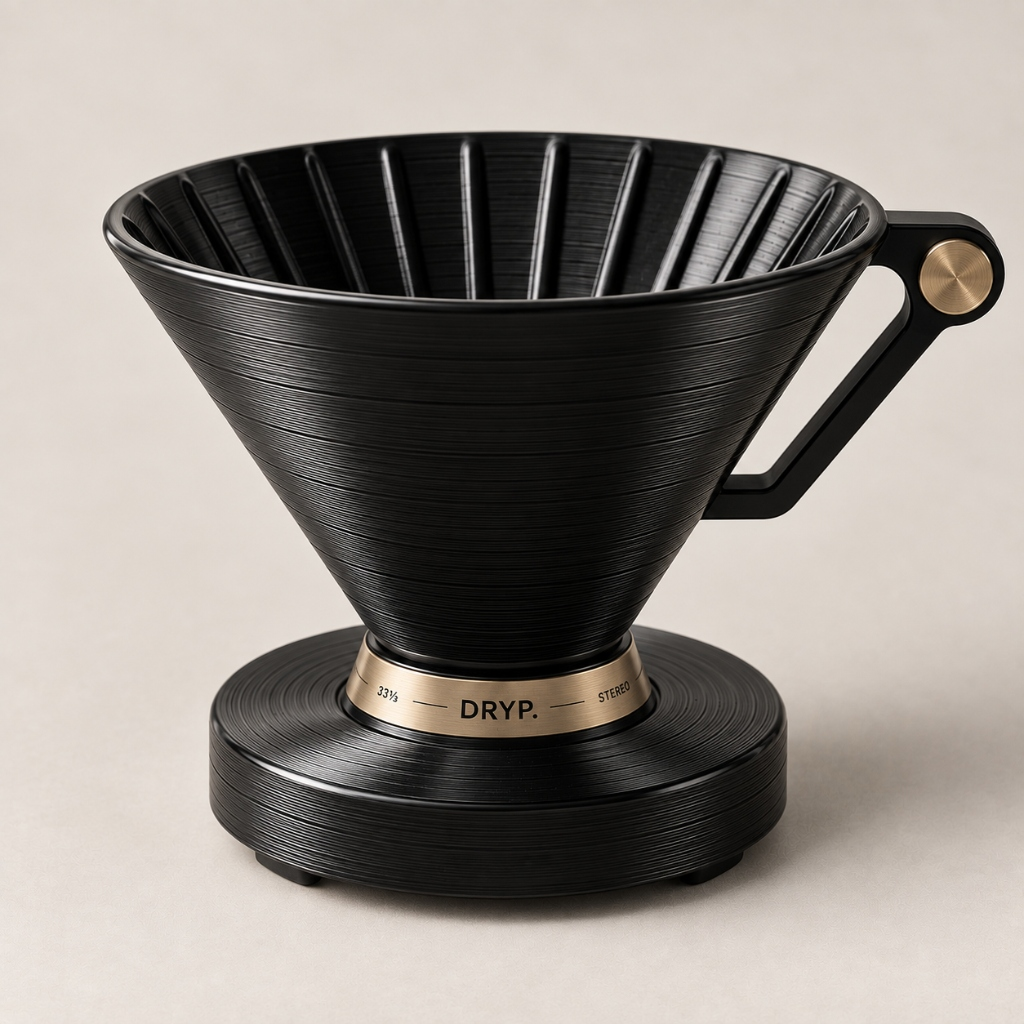
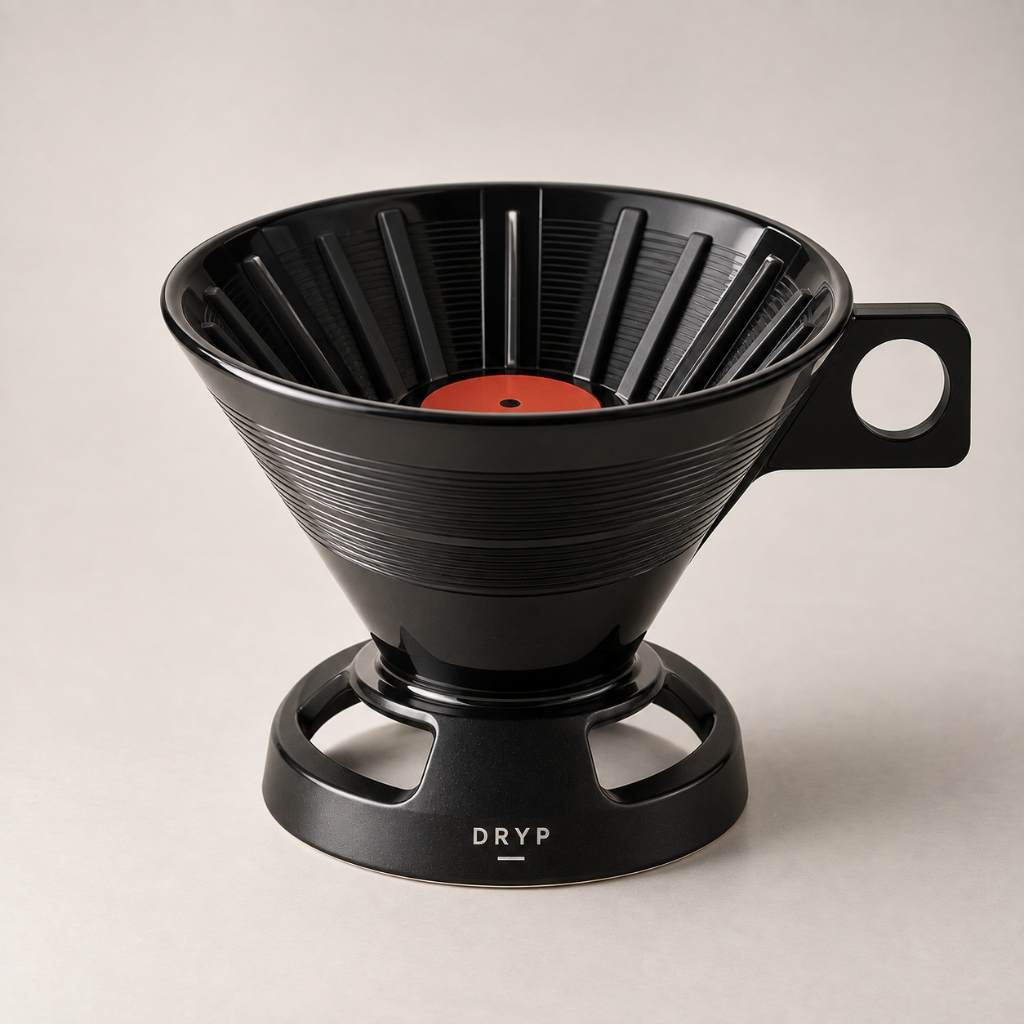
fix: replace Vinyl Groove dripper image and details with gloss black red-label edition

Changed region(s): [[0.0938, 0.125, 1.0, 0.9062], [0.9375, 0.0, 1.0, 0.0938]]

diff --git a/dripper-app/src/i18n/localizedData.ts b/dripper-app/src/i18n/localizedData.ts
@@ -763,16 +763,16 @@ export const LOCALIZED_PRODUCTS: Record<Language, Product[]> = {
       eyebrow: 'AUDIO 01',
       name: 'Vinyl Groove 33 RPM',
       headline: 'The warm tactile crackle before the morning melody begins.',
-      story: 'Matte black conical dripper with concentric vinyl micro-grooves spiraling inward and a polished solid brass center core label disc. Engineered to laminarize water flow.',
-      objectDescription: 'Micro-concentric ridges slow down channel bypassing, maximizing sweetness extraction in medium-dark and washed specialty coffees.',
+      story: 'High-gloss piano black ceramic conical dripper sculpted with concentric 33 RPM vinyl micro-grooves spiraling inward and a vibrant crimson-red center label disc. Features a geometric loop handle and an arched pedestal base stamped with DRYP.',
+      objectDescription: 'Micro-concentric exterior and interior ridges slow down channel bypassing, maximizing sweetness extraction and caramel notes in medium-dark and washed specialty coffees.',
       price: 84,
       currency: 'USD',
       stockStatus: 'available',
       stockLabel: 'Available (80 pieces)',
       stockCountRemaining: 80,
       paletteColors: [
-        { name: 'Matte Vinyl Black', hex: '#1C1C1C' },
-        { name: 'Solid Brass Disc', hex: '#C9A050' }
+        { name: 'Piano Gloss Black', hex: '#111111' },
+        { name: 'Record Label Crimson', hex: '#D62828' }
       ],
       specs: {
         extractionStyle: 'High sweetness, rich body, controlled acidity',
@@ -1830,7 +1830,7 @@ export const LOCALIZED_PRODUCTS: Record<Language, Product[]> = {
       eyebrow: 'AUDIO 01',
       name: 'Vinyl Groove 33 RPM',
       headline: 'El crujido cálido del vinilo antes de que inicie la melodía.',
-      story: 'Gotero cónico negro mate con microsurcos concéntricos inspirados en discos de vinilo a 33 RPM y disco central de latón macizo. Diseñado para laminar el caudal del agua.',
+      story: 'Gotero cerámico cónico en negro piano brillante con microsurcos concéntricos inspirados en discos de vinilo de 33 RPM y galleta central roja. Cuenta con asa geométrica de perfil plano y base arqueada con sello DRYP.',
       objectDescription: 'Las micro-estrías concéntricas reducen los canales de bypass acelerado, prolongando el contacto hidrodinámico para resaltar notas achocolatadas, melazas y cuerpo dulce.',
       price: 84,
       currency: 'USD',
@@ -1838,8 +1838,8 @@ export const LOCALIZED_PRODUCTS: Record<Language, Product[]> = {
       stockLabel: 'Disponible (80 piezas)',
       stockCountRemaining: 80,
       paletteColors: [
-        { name: 'Negro Vinilo Mate', hex: '#1C1C1C' },
-        { name: 'Núcleo Latón Pulido', hex: '#C9A050' }
+        { name: 'Negro Piano Brillante', hex: '#111111' },
+        { name: 'Galleta Rojo Carmín', hex: '#D62828' }
       ],
       specs: {
         extractionStyle: 'Dulzura profunda, cuerpo aterciopelado y acidez redonda',

diff --git a/dripper-app/src/data/pinterestPinsData.ts b/dripper-app/src/data/pinterestPinsData.ts
@@ -187,7 +187,7 @@ export const DRYP_DRIPS: DrypDrip[] = [
     id: 'drip-music-vinyl',
     productId: 'music-vinyl-33',
     title: '01 / Vinyl Groove 33',
-    subtitle: 'Gres negro mate con microsurcos de vinilo y núcleo de latón. Calibrado para notas dulces y cuerpo balanceado.',
+    subtitle: 'Cerámica negro piano brillante con microsurcos concéntricos de vinilo, galleta central rojo carmín y asa geométrica ergonómica.',
     category: 'Music',
     categoryLabel: 'Música',
     imageSrc: '/images/products/vinyl-groove.jpg',
